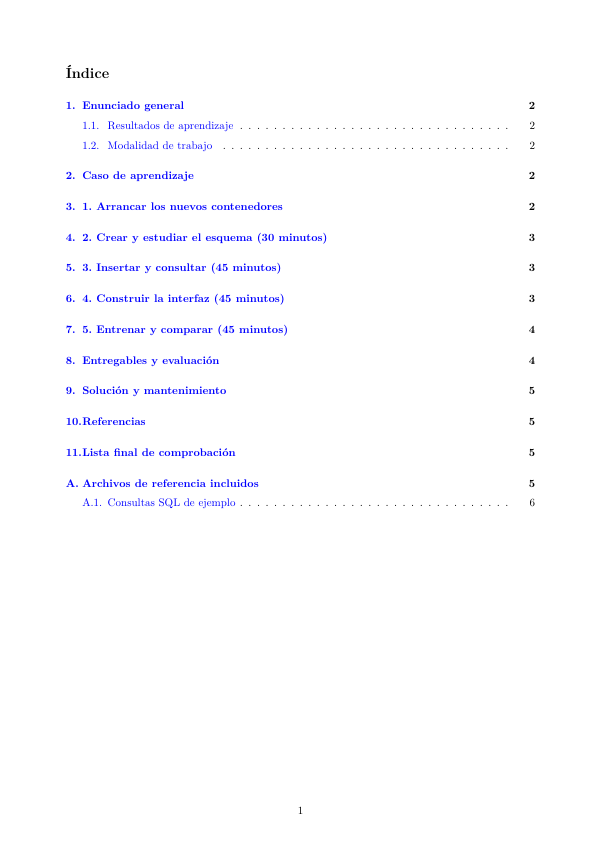
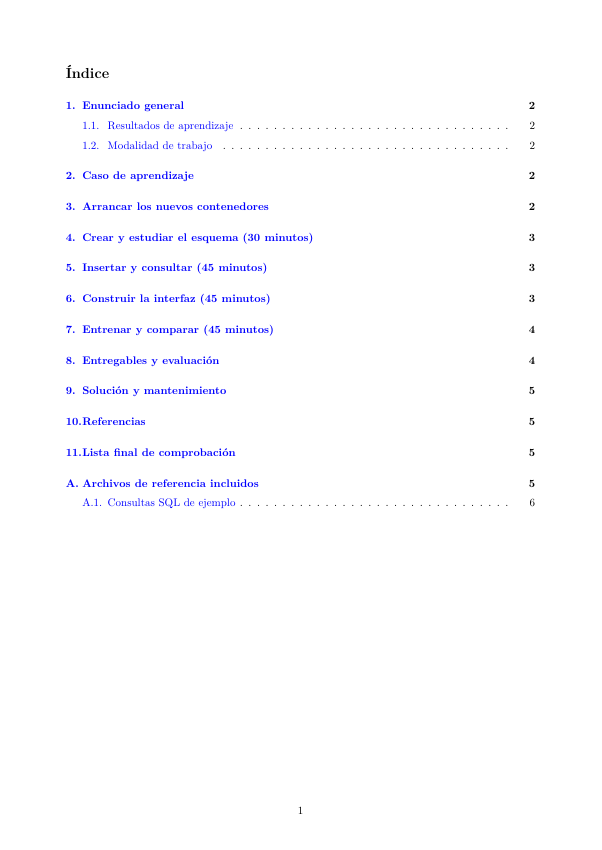
postgis2

diff --git a/ejercicios/proyecto_regresion_polinomica/postgis_lab/preparar_latex.py b/ejercicios/proyecto_regresion_polinomica/postgis_lab/preparar_latex.py
@@ -61,7 +61,7 @@ for line in lines[1:]:
         continue
     if line.startswith('## '):
         close_list()
-        body.append(r'\section{'+esc(line[3:])+'}')
+        body.append(r'\section{'+esc(re.sub(r'^\d+\. ', '', line[3:]))+'}')
     elif re.match(r'^\d+\. ',line) or line.startswith('- '):
         want = 'itemize' if line.startswith('- ') else 'enumerate'
         if mode != want:
@@ -145,7 +145,7 @@ Ejecuta las sentencias por separado. La inserción del ejemplo utiliza una refer
 tex = header+'\n'.join(body)+tail
 tex = tex.replace('–','--').replace('−','-').replace('€','EUR').replace('²',r'\textsuperscript{2}')
 (dest / 'main.tex').write_text(tex,encoding='utf-8')
-for name in ['app.py','db.py','modelos.py','verificar.py','requirements.txt','Dockerfile']:
+for name in ['app.py','db.py','modelos.py','verificar.py','requirements.txt','Dockerfile','compose.yaml']:
     shutil.copy2(src / name, dest / 'referencia' / name)
 for name in ['001_init.sql','consultas.sql']:
     shutil.copy2(src / 'sql' / name, dest / 'referencia' / 'sql' / name)
@@ -166,7 +166,8 @@ Desde esa carpeta: docker compose up -d --build postgis-lab postgis-lab-ui
 Interfaz: http://localhost:8502
 
 El ZIP es documental e incluye copias de referencia de la solucion.
-Los servicios se definen en compose.yaml del proyecto original.
+El compose.yaml principal incluye postgis_lab/compose.yaml (Compose 2.20+).
+referencia/compose.yaml conserva la definicion modular del laboratorio.
 No incluye credenciales del entorno ni datos privados.
 ''',encoding='utf-8')
 print(dest)

diff --git a/ejercicios/proyecto_regresion_polinomica/postgis_lab/EJERCICIO.md b/ejercicios/proyecto_regresion_polinomica/postgis_lab/EJERCICIO.md
@@ -10,6 +10,8 @@ El precio simulado es aproximadamente `80000 + 2800*superficie + 12000*habitacio
 
 ## 1. Arrancar los nuevos contenedores
 
+El `compose.yaml` principal incluye `postgis_lab/compose.yaml`. Ejecuta los comandos desde la raíz del proyecto; Docker resuelve el Dockerfile y el SQL con respecto al directorio del Compose incluido. Se requiere Docker Compose 2.20 o posterior por el uso de `include`.
+
 Desde PowerShell:
 
 ```powershell
